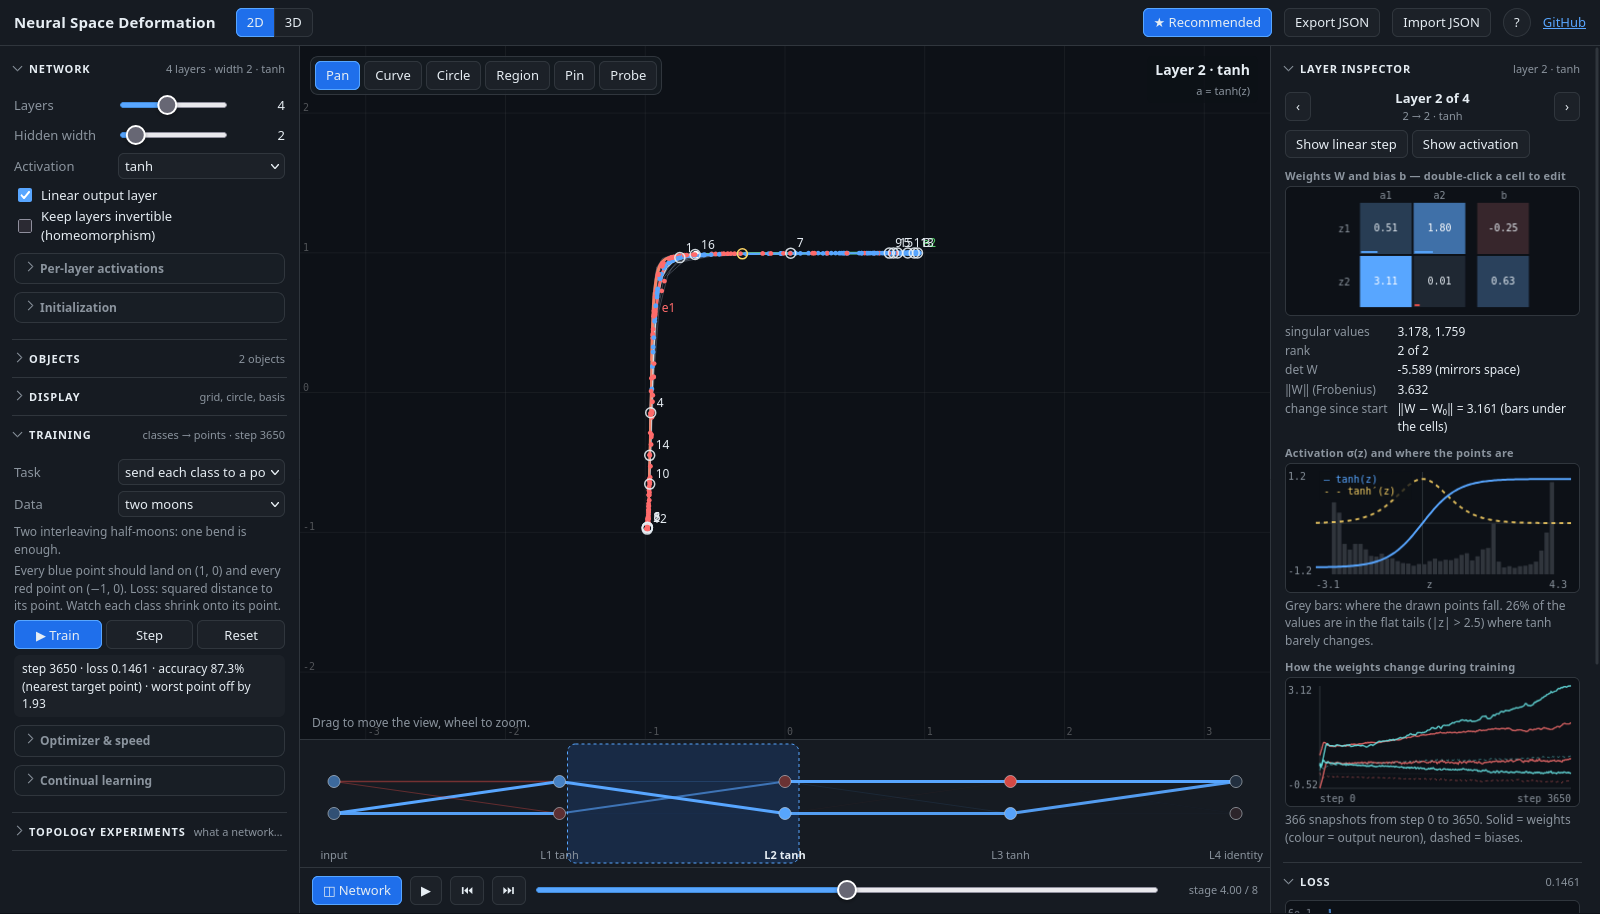
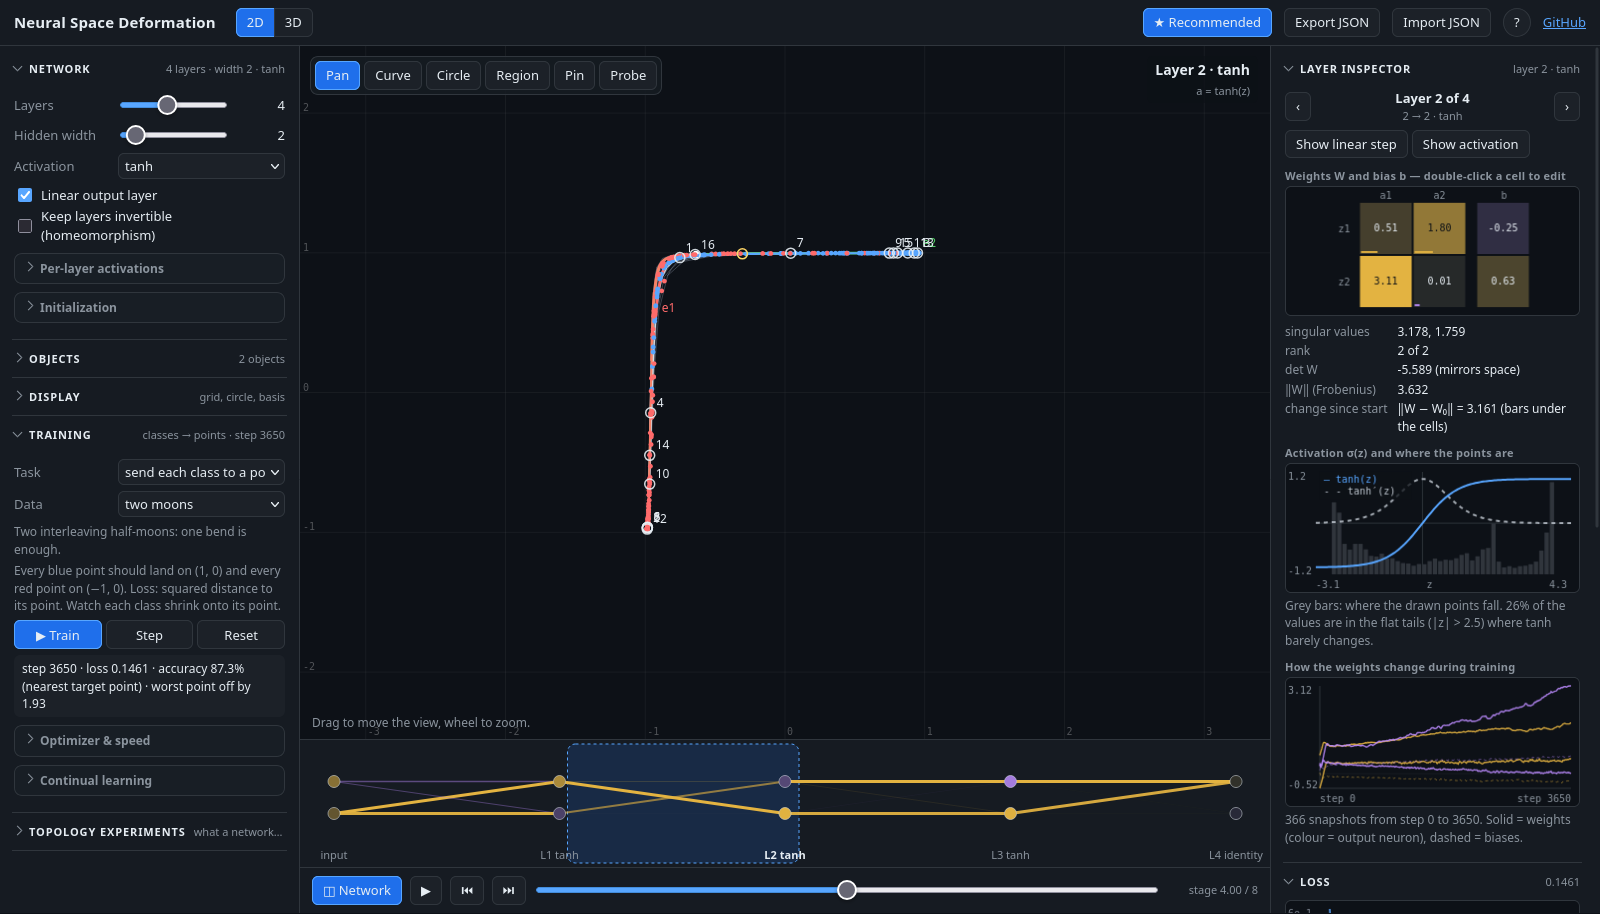
Sign colours gold/violet instead of blue/red
Blue and red mean the two classes everywhere in the app, so weight signs
(heatmap, network diagram), gradient-cosine matrix and the det(J) overlay now
use gold (+) and violet (−). Weight-history lines and σ′ avoid them too.

diff --git a/src/inspector.js b/src/inspector.js
@@ -1,7 +1,7 @@
 /*
  * inspector.js — the network diagram and the layer inspector.
  *
- *   drawNetwork    neurons as columns, weights as lines (blue +, red −, thickness ∝ |w|), each neuron
+ *   drawNetwork    neurons as columns, weights as lines (gold +, violet −, thickness ∝ |w|), each neuron
  *                  coloured by its value at the probe point; returns hit regions so a click selects a layer
  *   drawWeights    the weight matrix W (rows = output neurons, columns = inputs) and bias b as a heatmap
  *                  with the numbers written in; returns cell rectangles for hover / double-click editing
@@ -14,7 +14,8 @@
   'use strict';
 
   const C = {
-    pos: [88, 166, 255], neg: [248, 81, 73], text: '#e6edf3', muted: '#8b949e', line: '#30363d',
+    // sign colours: gold = positive, violet = negative (blue/red are reserved for the two classes)
+    pos: [227, 179, 65], neg: [188, 140, 255], text: '#e6edf3', muted: '#8b949e', line: '#30363d',
     grid: 'rgba(255,255,255,0.06)', accent: '#58a6ff', panel: '#1c2128', sel: 'rgba(31,111,235,0.18)',
   };
   const rgba = (c, a) => `rgba(${c[0]},${c[1]},${c[2]},${a})`;
@@ -29,6 +30,9 @@
   }
 
   /** Signed value → colour: blue (+) / red (−), opacity by magnitude relative to `scale`. */
+  // one colour per output neuron in the history chart (no class blue / red)
+  const ROWS = [[227, 179, 65], [188, 140, 255], [63, 185, 160], [247, 120, 186], [255, 166, 87], [165, 214, 167], [210, 168, 255], [121, 192, 180]];
+
   function signed(v, scale, minA = 0.12) {
     const a = Math.min(1, Math.abs(v) / (scale || 1));
     return rgba(v >= 0 ? C.pos : C.neg, minA + (1 - minA) * a);
@@ -149,7 +153,7 @@
           ctx.fillRect(x + 1, y + cell - 5, Math.max(1, len), 2);
         }
         if (showNum) {
-          ctx.fillStyle = Math.abs(v) / mx > 0.55 ? '#ffffff' : C.text;
+          ctx.fillStyle = Math.abs(v) / mx > 0.55 ? (v > 0 ? '#0d1117' : '#ffffff') : C.text;
           let t = fmt(v), tw = ctx.measureText(t).width;
           if (tw > cell - 6) { t = v.toFixed(1); tw = ctx.measureText(t).width; }
           ctx.fillText(t, x + (cell - 2 - tw) / 2, y + cell / 2 + 2);
@@ -214,11 +218,11 @@
       arr.forEach((v, k) => { const x = X(lo + ((hi - lo) * k) / N), y = Y(v); k ? ctx.lineTo(x, y) : ctx.moveTo(x, y); });
       ctx.stroke(); ctx.setLineDash([]);
     };
-    curve(dz, 'rgba(255,214,102,0.85)', [4, 4]);
+    curve(dz, 'rgba(201,209,217,0.8)', [4, 4]);
     curve(fz, C.accent);
     ctx.fillStyle = 'rgba(13,17,23,0.75)'; ctx.fillRect(pad.l + 4, pad.t, 92, 28);
     ctx.fillStyle = C.accent; ctx.fillText(`— ${act}(z)`, pad.l + 8, pad.t + 11);
-    ctx.fillStyle = 'rgba(255,214,102,0.95)'; ctx.fillText(`- - ${act}′(z)`, pad.l + 8, pad.t + 23);
+    ctx.fillStyle = 'rgba(201,209,217,0.95)'; ctx.fillText(`- - ${act}′(z)`, pad.l + 8, pad.t + 23);
   }
 
   // ---------------------------------------------------------------------------
@@ -249,8 +253,7 @@
     ctx.fillText(hi.toFixed(2), 2, pad.t + 8); ctx.fillText(lo.toFixed(2), 2, h - pad.b);
     ctx.fillText(byIndex ? 'start' : `step ${s0}`, pad.l, h - 4); const e = byIndex ? `edit ${n - 1}` : `step ${s1}`; ctx.fillText(e, w - pad.r - ctx.measureText(e).width, h - 4);
     for (const ln of lines) {
-      const hue = (ln.row * 360) / Math.max(1, L.nout);
-      ctx.strokeStyle = `hsla(${hue}, 70%, 65%, ${ln.bias ? 0.55 : 0.9})`;
+      ctx.strokeStyle = rgba(ROWS[ln.row % ROWS.length], ln.bias ? 0.55 : 0.9);
       ctx.lineWidth = ln.bias ? 1 : 1.4; ctx.setLineDash(ln.bias ? [3, 3] : []);
       ctx.beginPath();
       history.forEach((s, k) => { const x = X(s.step, k), y = Y(s.theta[ln.off]); k ? ctx.lineTo(x, y) : ctx.moveTo(x, y); });

diff --git a/index.html b/index.html
@@ -292,7 +292,7 @@
         <div class="group-label">Overlays</div>
         <div class="checks">
           <label data-tip="Image of a small circle under the local Jacobian: shows local stretching, squashing and rotation."><input id="showJac" type="checkbox"> Jacobian ellipses</label>
-          <label data-tip="Colour by the sign of det(J): green keeps orientation, red is mirrored (a fold), grey is collapsed."><input id="showDet" type="checkbox"> det(J) sign</label>
+          <label data-tip="Colour by the sign of det(J): green keeps orientation, violet is mirrored (a fold), grey is collapsed."><input id="showDet" type="checkbox"> det(J) sign</label>
           <label data-tip="Colour each point by how far it has moved from its input position."><input id="showDist" type="checkbox"> Distance moved</label>
         </div>
         <div class="group-label">View</div>
@@ -400,7 +400,7 @@
       <canvas id="netCanvas"></canvas>
     </div>
     <div id="stagebar">
-      <button id="netToggle" data-tip="Show / hide the network diagram: neurons, weights (blue +, red −) and the values at the probe point. Click a layer to inspect it.">◫ Network</button>
+      <button id="netToggle" data-tip="Show / hide the network diagram: neurons, weights (gold +, violet −) and the values at the probe point. Click a layer to inspect it.">◫ Network</button>
       <button id="play" data-tip="Animate through the layers (Space).">▶</button>
       <button id="stepBack" data-tip="Previous sub-step (←).">⏮</button>
       <button id="stepFwd" data-tip="Next sub-step: linear, then activation (→).">⏭</button>

diff --git a/src/ui.js b/src/ui.js
@@ -434,7 +434,7 @@
     const J = jacAt(d, tt), vd = traces.vd, k = vd * vd, n = J.length / k, out = [];
     for (let i = 0; i < n; i++) {
       const v = vd === 2 ? det2(J, i * k) : det3(J, i * k);
-      out.push(v > 1e-6 ? '#3fb950' : v < -1e-6 ? '#f85149' : '#8b949e');
+      out.push(v > 1e-6 ? '#3fb950' : v < -1e-6 ? '#bc8cff' : '#8b949e');
     }
     return out;
   }
@@ -1123,7 +1123,7 @@
       Charts.heatmap($('heatmap'), M, { mode: kind === 'ntk' ? 'sequential' : 'diverging' });
       $('heatNote').textContent = kind === 'ntk'
         ? `K(xᵢ, xⱼ) = tr(Jᵢ Jⱼᵀ) for the ${samples.length} ${S.train.target === 'pins' ? 'pins' : 'numbered points in the view'}; brighter = training one point moves the other's output more.`
-        : `cos(∇Lᵢ, ∇Lⱼ) for the ${samples.length} ${S.train.target === 'pins' ? 'pins' : 'numbered points in the view'}: red = they agree, blue = they fight (interference).`;
+        : `cos(∇Lᵢ, ∇Lⱼ) for the ${samples.length} ${S.train.target === 'pins' ? 'pins' : 'numbered points in the view'}: gold = they agree, violet = they fight (interference).`;
     }
   }
 

diff --git a/src/viz2d.js b/src/viz2d.js
@@ -264,7 +264,7 @@
       ctx.setLineDash([]);
     },
 
-    /** Matrix heatmap. mode 'diverging' maps [-1, 1] blue→black→red; 'sequential' maps [0, max]. */
+    /** Matrix heatmap. mode 'diverging' maps [-1, 1] violet→black→gold; 'sequential' maps [0, max]. */
     heatmap(canvas, M, opt = {}) {
       const { ctx, w, h } = prep(canvas);
       const n = M.length;
@@ -303,8 +303,9 @@
   function divColor(v) {
     const t = Math.max(-1, Math.min(1, v));
     const a = Math.abs(t);
-    return t >= 0 ? `rgb(${Math.round(40 + 200 * a)},${Math.round(40 + 40 * a)},${Math.round(50 + 20 * a)})`
-      : `rgb(${Math.round(40 + 20 * a)},${Math.round(60 + 90 * a)},${Math.round(60 + 190 * a)})`;
+    // gold for +, violet for − (blue / red are reserved for the two classes)
+    return t >= 0 ? `rgb(${Math.round(30 + 197 * a)},${Math.round(30 + 149 * a)},${Math.round(36 + 29 * a)})`
+      : `rgb(${Math.round(30 + 158 * a)},${Math.round(30 + 110 * a)},${Math.round(36 + 219 * a)})`;
   }
   /** Sequential colour for t ∈ [0, 1] (dark → teal → yellow, a viridis-like ramp). */
   function seqColor(t) {

diff --git a/README.md b/README.md
@@ -20,7 +20,7 @@ only to draw the 3D view.
 1. **Watch a network bend space.** Press ▶ under the view: the grid, the unit circle and the example
    objects go through each layer — first the linear map, then the activation.
 2. **Look inside a layer.** Press **◫ Network** under the view and click a layer in the diagram. The
-   *Layer inspector* on the right shows its weight matrix `W` and bias `b` as a heatmap (blue +, red −),
+   *Layer inspector* on the right shows its weight matrix `W` and bias `b` as a heatmap (gold +, violet −; blue and red always mean the two classes),
    its activation function with the derivative and a histogram of where the points actually land, and
    how every weight moved during training. Double-click a weight, type a new value and watch the
    deformation change.
@@ -49,14 +49,14 @@ only to draw the 3D view.
   after each layer — every layer is split into its **linear** step (`z = W a + b`) and its
   **activation** step (`a = σ(z)`), with a smooth morph in between.
 - **Network diagram and layer inspector.** A strip under the view draws the network: one column per
-  layer, edges coloured and weighted by `W` (blue positive, red negative), neurons filled by their value
+  layer, edges coloured and weighted by `W` (gold positive, violet negative), neurons filled by their value
   at the probe point. Click a layer to inspect it: `W`/`b` heatmap with the change since initialization
   under each cell, singular values, rank, `det W`, norms; the activation `σ(z)` and `σ′(z)` with a
   histogram of the pre-activations `z` (and a note such as "26 % of the values are in the flat tails of
   tanh"); and the history of every weight of the layer over training. Any weight or bias can be edited
   by double-clicking it.
 - **Overlays.** Local Jacobian ellipses (how a tiny circle is deformed), the sign of `det J`
-  (green = orientation kept, red = mirrored, i.e. a fold) and the distance each point moved.
+  (green = orientation kept, violet = mirrored, i.e. a fold) and the distance each point moved.
 - **Network.** 1–8 layers, hidden width 1–16 (wider layers are shown through a PCA projection),
   per-layer activation (identity, ReLU, tanh, sigmoid, GELU, sin), initialization (normal, uniform,
   Xavier, He) with scale and seed, and a **temperature** slider that randomizes the activations.
